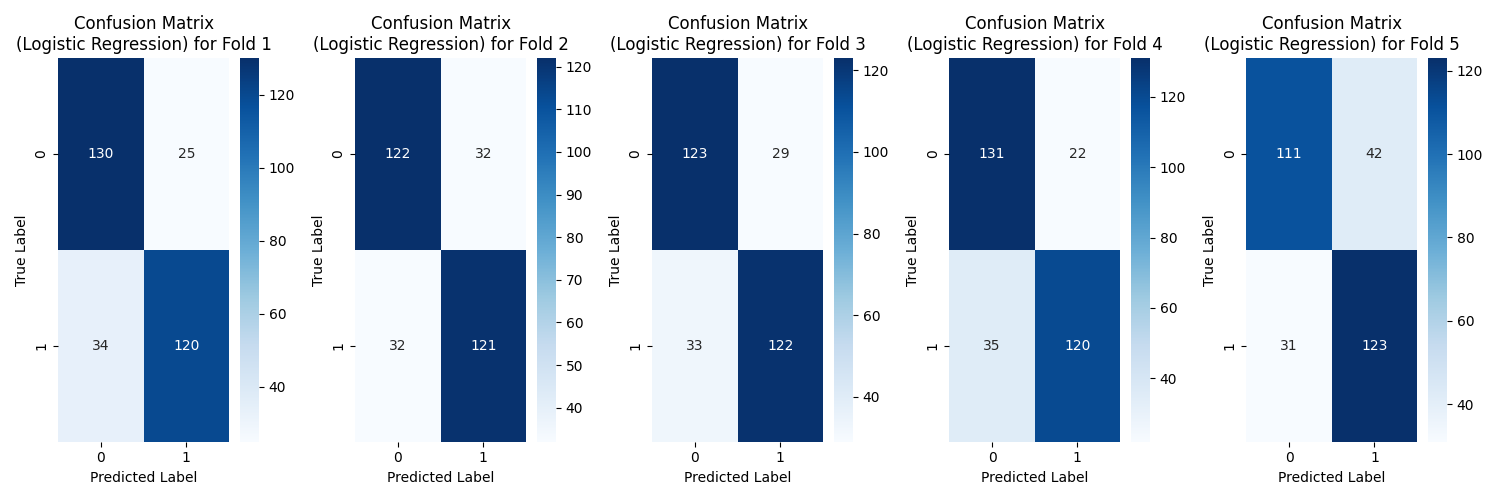
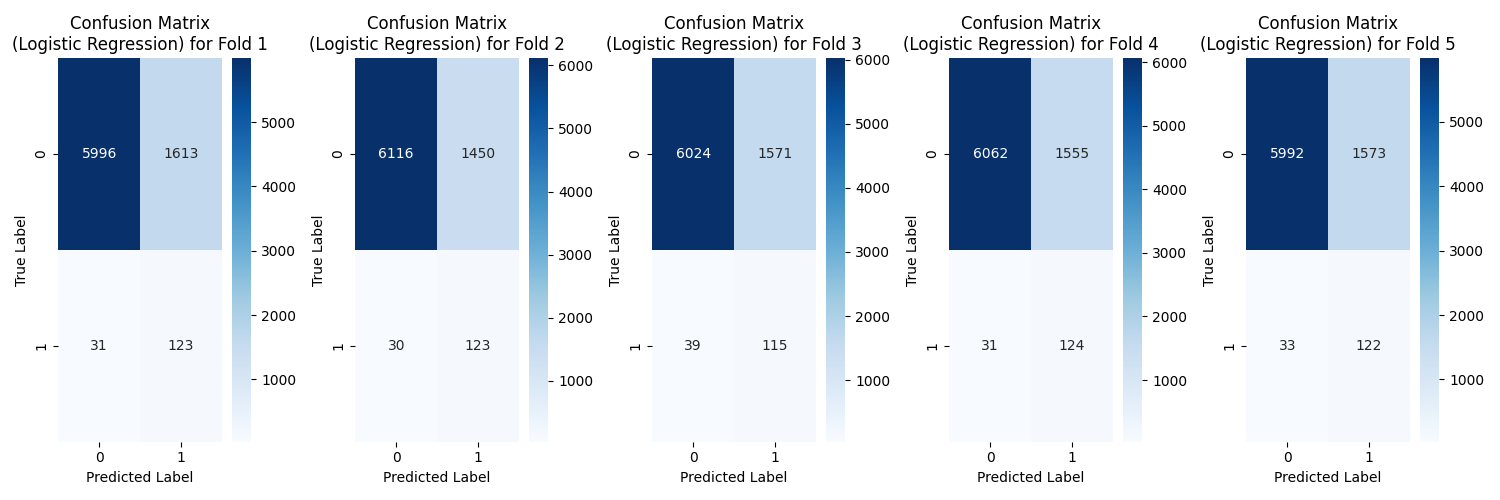
Feature selection mit bilder

diff --git a/Feature_Selection_2.py b/Feature_Selection_2.py
@@ -202,8 +202,7 @@ def everything(data, model,param, random,what):
     cate_cols.remove('UDPYIEM')
     X = data.drop('UDPYIEM',axis=1)
     y= data.UDPYIEM
-    undersampler = RandomUnderSampler(random_state=42)
-    X, y = undersampler.fit_resample(X, y)
+
     ordinal = []
     nominal = []
     for col in cate_cols:
@@ -227,6 +226,8 @@ def everything(data, model,param, random,what):
     for train_index, test_index in cv.split(X,y):
         X_train, X_test = X.iloc[train_index], X.iloc[test_index]
         y_train, y_test = y.iloc[train_index], y.iloc[test_index]
+        undersampler = RandomUnderSampler(random_state=random)
+        X_train, y_train = undersampler.fit_resample(X_train, y_train)
         X_train_copy = X_train.copy()
         X_test_copy = X_test.copy()
         num_cols_test = X_test.select_dtypes(include=['Int64', 'float64']).columns.tolist()
@@ -343,7 +344,9 @@ def everything(data, model,param, random,what):
         if model_name == 'KNearest':
             plt.savefig('figures/roc_curve_KN.png')
         #eure model_names :) ...
-        ##if model_name == ...:
+        if model_name == 'SVM':
+            plt.savefig('figures/roc_curve_SVM.png')
+
 
         ##if model_name == ...:
         fig_cm, axs_cm = plt.subplots(1, splits, figsize=(15, 5))
@@ -359,7 +362,8 @@ def everything(data, model,param, random,what):
         if model_name == 'KNearest':
             plt.savefig('figures/confusion_matrices_knearest.png')
         #eure model_names :) ...
-        ##if model_name == ...:
+        if model_name == 'SVM':
+            plt.savefig('figures/confusion_matrices_SVM.png')
 
         ##if model_name == ...:
         for item in metrics:
